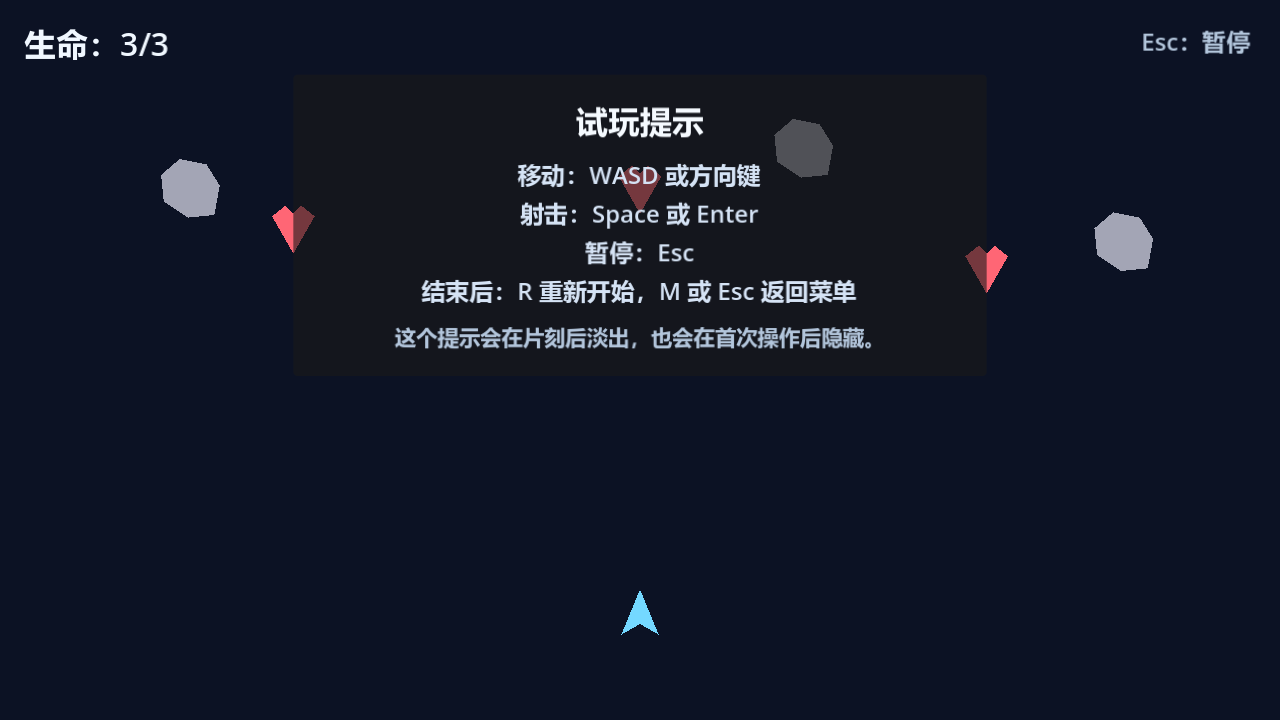
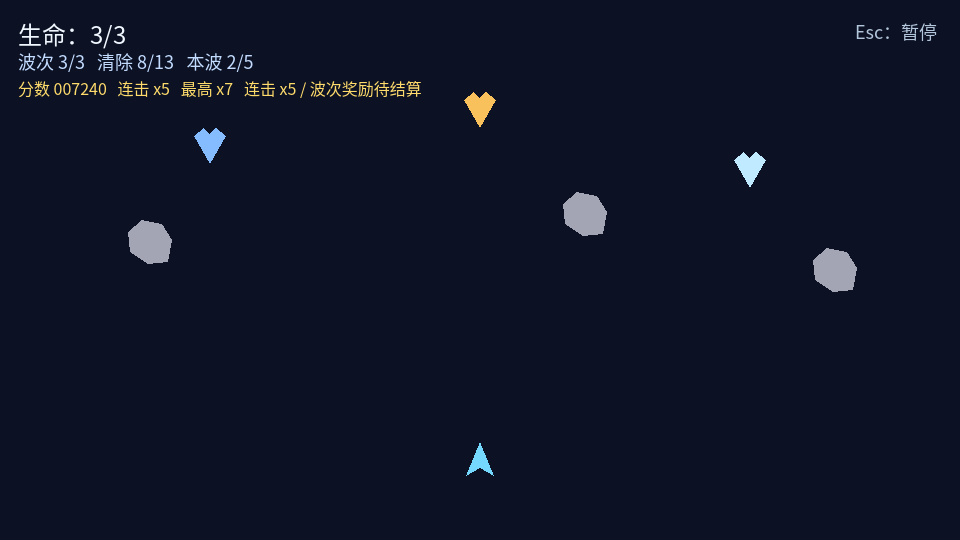
feat: update playlab portfolio showcases

diff --git a/src/data/portfolio.ts b/src/data/portfolio.ts
@@ -117,78 +117,78 @@ export const projects: Project[] = [
   {
     id: 'game-first-tetris',
     title: '俄罗斯方块原型｜Tetris',
-    summary: 'Godot 4 俄罗斯方块原型，包含经典模式、肉鸽三选一强化、触屏桥接、响应式布局和截图回归。',
+    summary: 'Godot 4 俄罗斯方块原型，包含经典计分、软降/硬降得分、combo、back-to-back、肉鸽三选一强化、触屏桥接、响应式布局和截图回归。',
     category: 'interactive',
     status: 'live',
     role: 'Godot 引擎 / Web 试玩 / 触屏适配',
     image: '/images/projects/showcase/tetris-classic-desktop.png',
     stack: ['Godot 4', 'Web 导出', '游戏原型'],
-    highlights: ['经典模式', '肉鸽原型', '触屏输入', '截图回归'],
+    highlights: ['经典计分', '软硬降得分', 'combo/B2B', '触屏输入'],
     detailLink: gameSiteLink('first-tetris'),
     links: [gameSiteLink('first-tetris'), gamePlayLink('first-tetris')],
   },
   {
     id: 'game-next-spacewar',
     title: '太空战机｜展示构建',
-    summary: 'Godot 4.6 太空射击展示构建，补齐主菜单、设置、帮助、暂停、结果页和单局复盘总结。',
+    summary: 'Godot 4.6 太空射击展示构建，补齐三波短任务、漂移/装甲目标、障碍压力、击破连击、波次奖励、主菜单、帮助、暂停、结果页和单局复盘。',
     category: 'interactive',
     status: 'live',
     role: 'Godot 展示构建 / 战斗循环 / 单局复盘',
     image: '/images/projects/showcase/next-spacewar-menu.png',
     stack: ['Godot 4.6', '太空射击', 'Web 导出'],
-    highlights: ['主菜单', '帮助暂停', '战斗循环', '结果复盘'],
+    highlights: ['三波短任务', '击破连击', '波次奖励', '结果复盘'],
     detailLink: gameSiteLink('next-spacewar'),
     links: [gameSiteLink('next-spacewar'), gamePlayLink('next-spacewar')],
   },
   {
     id: 'intespace',
     title: '竖屏肉鸽射击｜intespace',
-    summary: '竖屏自动射击肉鸽游戏，围绕武器树、局内升级、首领试炼、局外成长和集成试玩收口。',
+    summary: '竖屏自动射击肉鸽游戏，围绕章节推进、生存挑战、Boss 试炼、武器树、局内升级、局外成长和集成试玩收口。',
     category: 'interactive',
     status: 'live',
     role: 'Godot 引擎 / 肉鸽玩法 / 武器树 / 局外成长',
     image: '/images/projects/showcase/intespace-player-hub.png',
     stack: ['Godot', '肉鸽玩法', '武器树系统', '移动端优先'],
-    highlights: ['武器树', '自动射击', '首领试炼', '局外成长'],
+    highlights: ['章节推进', '生存挑战', 'Boss 试炼', '局外成长'],
     detailLink: gameSiteLink('intespace'),
     links: [gameSiteLink('intespace'), gamePlayLink('intespace')],
   },
   {
     id: 'raiden-prototype',
     title: '纵版弹幕射击｜垂直切片',
-    summary: 'Godot 纵版射击垂直切片，覆盖双关卡章节、火力成长、首领相位、章节过场和试玩验证。',
+    summary: 'Godot 纵版射击垂直切片，覆盖双关卡章节、火力成长、连锁击破奖励、首领相位、章节过场和试玩验证。',
     category: 'interactive',
     status: 'live',
     role: 'Godot 引擎 / 纵版射击 / 原型验证',
     image: '/images/projects/showcase/raiden-main-menu.png',
     stack: ['Godot', '纵版射击', '原型验证'],
-    highlights: ['双关卡章节', '火力成长', '首领收束', '试玩验证'],
+    highlights: ['双关卡章节', '连锁击破', '首领收束', '试玩验证'],
     detailLink: gameSiteLink('raiden'),
     links: [gameSiteLink('raiden'), gamePlayLink('raiden')],
   },
   {
     id: 'space-war',
     title: '复古横版射击｜space-war',
-    summary: '复古横向太空射击完整版本，包含多区域关卡、首领战、道具、高分、结果页、程序化音效和发布文档。',
+    summary: '复古横向太空射击完整版本，包含五个 Sector、连续击破奖励、首领战、道具、高分、结果页、程序化音效和发布文档。',
     category: 'interactive',
     status: 'live',
     role: 'Godot 引擎 / 复古射击 / 发布版 / 展示入口',
     image: '/images/projects/showcase/space-war-gameplay.png',
     stack: ['Godot 4.6', '复古射击', 'Web 包计划'],
-    highlights: ['区域首领', '道具系统', '高分结算', '发布文档'],
+    highlights: ['五个 Sector', '连续击破', '高分结算', '发布文档'],
     detailLink: gameSiteLink('space-war'),
     links: [gameSiteLink('space-war'), gamePlayLink('space-war')],
   },
   {
     id: 'spacewar-ii',
     title: '移动纵向射击｜Spacewar II',
-    summary: 'Godot 4.6 纵向移动射击续作原型，围绕菜单、战斗、拾取升级、炸弹、紧凑 HUD 和结果页接入第六个 Web 试玩位。',
+    summary: 'Godot 4.6 纵向移动射击续作原型，围绕差异化敌群、Boss 阶段、多向弹幕、拾取升级、炸弹、短窗口连击、清关资源结算、紧凑 HUD 和结果页接入第六个 Web 试玩位。',
     category: 'interactive',
     status: 'live',
     role: 'Godot 引擎 / 纵向射击 / Web 试玩 / 第六项目接入',
-    image: '/images/projects/showcase/spacewar-ii-cover.svg',
+    image: '/images/projects/showcase/spacewar-ii-menu.png',
     stack: ['Godot 4.6', '移动射击', 'Web 导出'],
-    highlights: ['纵向推进', '拾取升级', '炸弹系统', '结果结算'],
+    highlights: ['差异化敌群', '短窗口连击', 'Boss 阶段', '结果结算'],
     detailLink: gameSiteLink('spacewar-ii'),
     links: [gameSiteLink('spacewar-ii'), gamePlayLink('spacewar-ii')],
   },